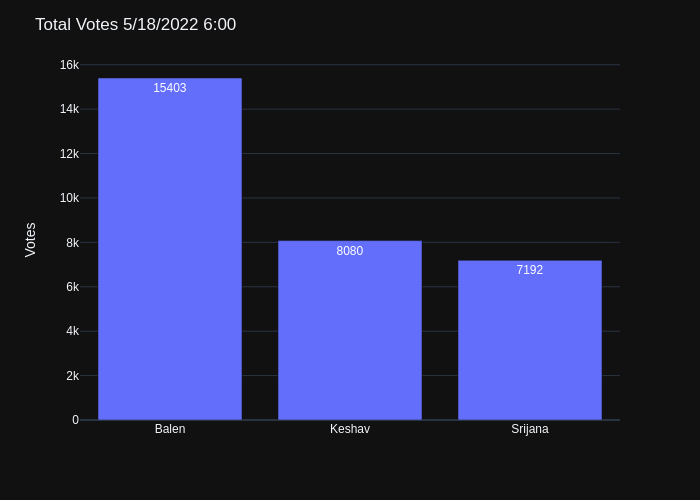
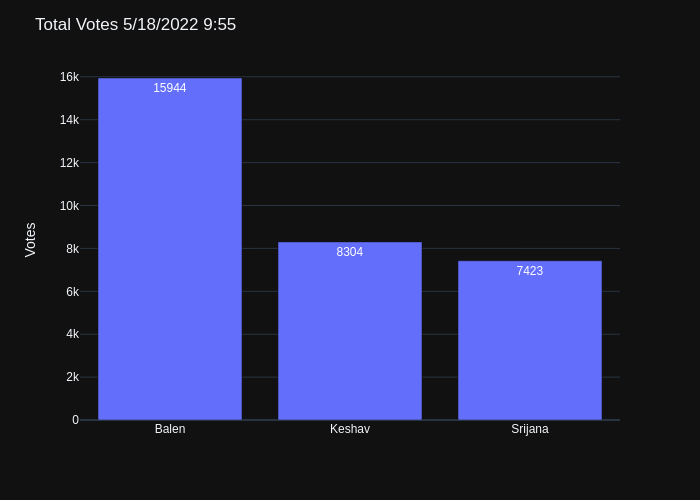
Add data

diff --git a/README.md b/README.md
@@ -1,4 +1,4 @@
-## Last Update: 5/18/2022 6:00
+## Last Update: 5/18/2022 9:55
 
 ## Balen's Lead against Keshav Sthapit and Srijana Singh
 ![ScreenShot](final.jpg)
